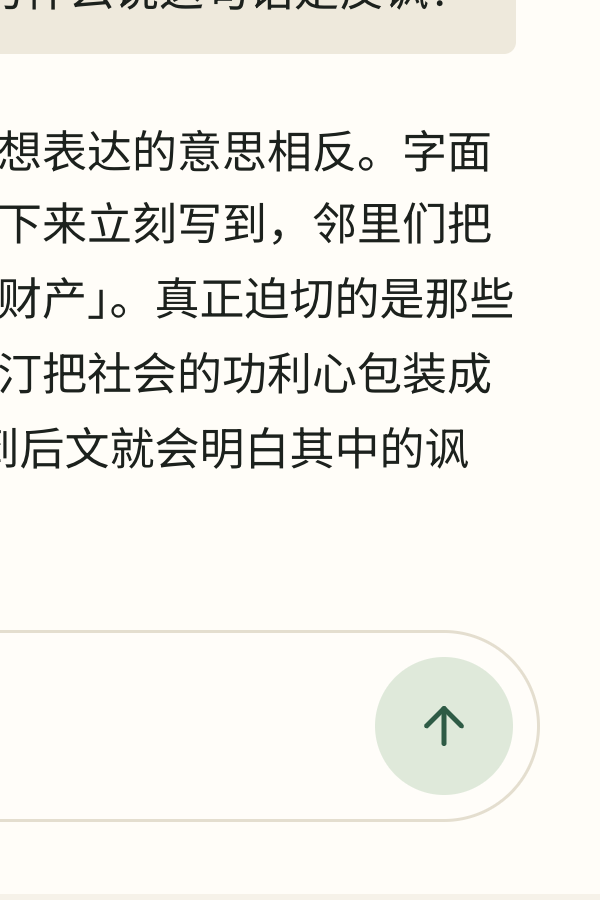
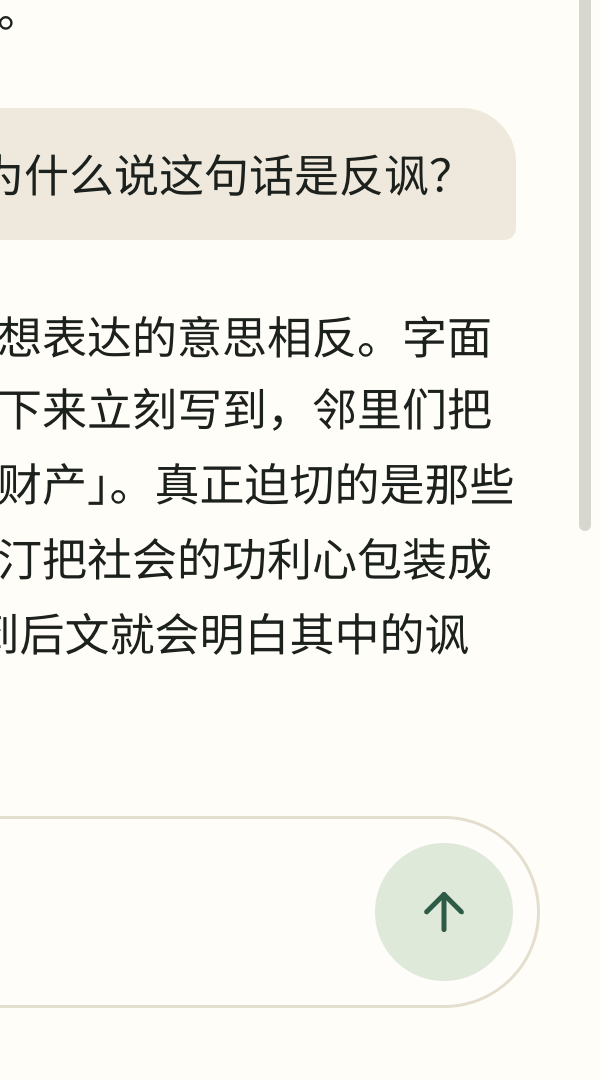
refactor: address review of the overlay scrollbars
- Bars fade from 0.7 s after the last user scroll over 0.4 s, gone by about 1.1 s.
- A bar already showing no longer stays up for the app's own scrolls (a streamed reply); typing is not a scroll.
- The chat's bar ends above the dock at its tallest (新回复 + quick row + 追问 bar) and starts below its fade.
- Firefox shows the page's bar from the root; removal hides what it showed.
- Split the listener into small pieces, ink-3 by color-mix, comments brought in line.

diff --git a/web/src/scrollbars.ts b/web/src/scrollbars.ts
@@ -1,31 +1,69 @@
 /**
  * Overlay-style scrollbars on classic ones: a scroll area's thumb shows while the user scrolls it, or while the
- * pointer is on its scrollbar, and fades out SCROLLBAR_IDLE_MS after. The scrollbar itself always keeps its gutter
- * and stays grabbable; only its colour changes, from the SCROLLBAR_ATTR rules in styles.css.
+ * pointer is on its scrollbar, and fades out from SCROLLBAR_IDLE_MS after. The scrollbar itself always keeps its
+ * gutter and stays grabbable; only its colour changes, from the SCROLLBAR_ATTR rules in styles.css.
  *
  * Scrolls the app makes on its own (following playback, a streamed reply, keeping the reading place when a click
- * narrows the column) do not show it: only a scroll within INPUT_WINDOW_MS of the user's wheel, finger drag, key or
- * middle-button press does, or one on a bar already showing. Dragging the bar itself shows it from the pointer.
+ * narrows the column) do not show it: only a scroll within INPUT_WINDOW_MS of the user's wheel, finger drag,
+ * scrolling key or middle-button press does. Dragging the bar itself shows it from the pointer.
  */
 
 /** Set on a scroll area while its scrollbar shows; the page's own scrollbar takes its style from the body. */
 export const SCROLLBAR_ATTR = "data-scrollbar";
-/** How long a scrollbar stays after the last scroll or after the pointer leaves it. */
-export const SCROLLBAR_IDLE_MS = 1000;
+/** How long a scrollbar stays after the last scroll or after the pointer leaves it, before it fades out. */
+export const SCROLLBAR_IDLE_MS = 700;
 /** How soon after the user's input a scroll still counts as theirs. */
 export const INPUT_WINDOW_MS = 400;
 
-const INPUT_EVENTS = ["wheel", "touchmove", "keydown", "mousedown"] as const;
-
 /** Installs the listeners on the document, once at app start; returns their removal. */
 export function autoHideScrollbars(doc: Document = document): () => void {
-  const timers = new Map<Element, ReturnType<typeof setTimeout>>();
+  const bars = scrollbarStates(doc);
   let lastInput = -Infinity;
-  // The scroll area whose scrollbar the pointer is on.
+
+  const onInput = (e: Event) => {
+    if (isScrollInput(e)) lastInput = Date.now();
+  };
+
+  const onScroll = (e: Event) => {
+    // The page's own scroll fires on the document.
+    if (Date.now() - lastInput <= INPUT_WINDOW_MS) bars.show(e.target instanceof Element ? e.target : doc.documentElement);
+  };
+
+  const onMouseMove = (e: Event) => {
+    const target = e.target instanceof Element ? e.target : null;
+    bars.hover(target && e instanceof MouseEvent && onScrollbar(target, e) ? target : null);
+  };
+
+  // Leaving the window (relatedTarget null) leaves any scrollbar too; the page's own sits at the window's edge.
+  const onMouseOut = (e: Event) => {
+    if (e instanceof MouseEvent && !e.relatedTarget) bars.hover(null);
+  };
+
+  const listeners: [string, (e: Event) => void][] = [
+    ["wheel", onInput],
+    ["touchmove", onInput],
+    ["keydown", onInput],
+    ["mousedown", onInput],
+    ["scroll", onScroll],
+    ["mousemove", onMouseMove],
+    ["mouseout", onMouseOut],
+  ];
+  const options = { capture: true, passive: true } as const;
+  for (const [type, listener] of listeners) doc.addEventListener(type, listener, options);
+  return () => {
+    for (const [type, listener] of listeners) doc.removeEventListener(type, listener, options);
+    bars.clear();
+  };
+}
+
+/** Which scrollbars show: each until SCROLLBAR_IDLE_MS after it was last shown, the hovered one for as long as it is. */
+function scrollbarStates(doc: Document) {
+  const timers = new Map<Element, ReturnType<typeof setTimeout>>();
+  // The scrollbar the pointer is on, by the element it is styled from.
   let hovered: Element | null = null;
 
   // The page's scrollbar is styled from the body (Chrome's choice when the body has scrollbar rules).
-  const styled = (el: Element) => (el === doc.documentElement ? doc.body : el);
+  const styled = (area: Element) => (area === doc.documentElement ? doc.body : area);
 
   const hideLater = (el: Element) => {
     clearTimeout(timers.get(el));
@@ -38,25 +76,15 @@ export function autoHideScrollbars(doc: Document = document): () => void {
     );
   };
 
-  const show = (el: Element) => {
+  const show = (area: Element) => {
+    const el = styled(area);
     el.setAttribute(SCROLLBAR_ATTR, "");
     if (el === hovered) clearTimeout(timers.get(el));
     else hideLater(el);
   };
 
-  // A click is not a scroll; a middle-button press starts autoscroll.
-  const onInput = (e: Event) => {
-    if (e.type === "mousedown" && (e as MouseEvent).button !== 1) return;
-    lastInput = Date.now();
-  };
-
-  const onScroll = (e: Event) => {
-    // The page's own scroll fires on the document.
-    const el = styled(e.target instanceof Element ? e.target : doc.documentElement);
-    if (Date.now() - lastInput <= INPUT_WINDOW_MS || el.hasAttribute(SCROLLBAR_ATTR)) show(el);
-  };
-
-  const hover = (el: Element | null) => {
+  const hover = (area: Element | null) => {
+    const el = area && styled(area);
     if (el === hovered) return;
     const left = hovered;
     hovered = el;
@@ -64,29 +92,26 @@ export function autoHideScrollbars(doc: Document = document): () => void {
     if (el) show(el);
   };
 
-  const onMouseMove = (e: MouseEvent) => {
-    const target = e.target instanceof Element ? e.target : null;
-    hover(target && onScrollbar(target, e) ? styled(target) : null);
-  };
-
-  // Leaving the window (relatedTarget null) leaves any scrollbar too; the page's own sits at the window's edge.
-  const onMouseOut = (e: MouseEvent) => {
-    if (!e.relatedTarget) hover(null);
-  };
-
-  const options = { capture: true, passive: true } as const;
-  for (const type of INPUT_EVENTS) doc.addEventListener(type, onInput, options);
-  doc.addEventListener("scroll", onScroll, options);
-  doc.addEventListener("mousemove", onMouseMove, options);
-  doc.addEventListener("mouseout", onMouseOut, options);
-  return () => {
-    for (const type of INPUT_EVENTS) doc.removeEventListener(type, onInput, options);
-    doc.removeEventListener("scroll", onScroll, options);
-    doc.removeEventListener("mousemove", onMouseMove, options);
-    doc.removeEventListener("mouseout", onMouseOut, options);
+  const clear = () => {
     for (const timer of timers.values()) clearTimeout(timer);
     timers.clear();
+    hovered = null;
+    for (const el of doc.querySelectorAll(`[${SCROLLBAR_ATTR}]`)) el.removeAttribute(SCROLLBAR_ATTR);
   };
+
+  return { show, hover, clear };
+}
+
+/**
+ * Whether an input event is the user starting to scroll: a wheel, a finger drag, a key outside a text field, or a
+ * middle-button press (autoscroll). A click is not, nor is typing, though the app may scroll after either.
+ */
+function isScrollInput(e: Event): boolean {
+  if (e instanceof KeyboardEvent) {
+    return !(e.target instanceof Element && e.target.closest("input, textarea, [contenteditable]"));
+  }
+  if (e.type === "mousedown") return e instanceof MouseEvent && e.button === 1;
+  return true;
 }
 
 /**

diff --git a/web/src/styles.css b/web/src/styles.css
@@ -53,24 +53,25 @@ button {
 :root {
   /* The room the custom scrollbar takes, for areas that make up for it; 0 where the browser draws its own. */
   --scrollbar-size: 0px;
-  /* ink-3, faint at rest-visible, a little firmer under the pointer and while dragged. */
-  --scrollbar-thumb-shown: rgb(154 158 147 / 0.4);
-  --scrollbar-thumb-hover: rgb(154 158 147 / 0.58);
-  --scrollbar-thumb-active: rgb(154 158 147 / 0.74);
+  /* ink-3, faint when shown, a little firmer under the pointer and while dragged. */
+  --scrollbar-thumb-shown: color-mix(in srgb, var(--ink-3) 40%, transparent);
+  --scrollbar-thumb-hover: color-mix(in srgb, var(--ink-3) 58%, transparent);
+  --scrollbar-thumb-active: color-mix(in srgb, var(--ink-3) 74%, transparent);
 }
 
 /*
  * A scrollbar takes its colour from its scroll area; every element sets its own, so a shown bar does not show the
- * bars inside its area. Shown, it fades in quickly; idle, it fades out slowly.
+ * bars inside its area. Shown, it fades in quickly; idle, it fades out over 0.4 s. A scroll area that declares its
+ * own transition must list --scrollbar-thumb in it to keep the fade.
  */
 * {
   --scrollbar-thumb: transparent;
-  transition: --scrollbar-thumb 0.5s ease-out;
+  transition: --scrollbar-thumb 0.4s ease-out;
 }
 
 [data-scrollbar] {
   --scrollbar-thumb: var(--scrollbar-thumb-shown);
-  transition-duration: 0.12s;
+  transition: --scrollbar-thumb 0.12s ease-out;
 }
 
 /* Shell pages that scroll and those that do not keep the same width; the 专注页 never scrolls the page itself. */
@@ -126,6 +127,11 @@ html:has(.shell) {
   * {
     scrollbar-width: thin;
     scrollbar-color: var(--scrollbar-thumb) transparent;
+  }
+
+  /* Firefox styles the page's scrollbar from the root, not the body that scrollbars.ts marks. */
+  html:has(> body[data-scrollbar]) {
+    --scrollbar-thumb: var(--scrollbar-thumb-shown);
   }
 }
 

diff --git a/web/src/scrollbars.test.ts b/web/src/scrollbars.test.ts
@@ -45,8 +45,9 @@ describe("autoHideScrollbars", () => {
     scroll(el);
     expect(shown(el)).toBe(true);
 
-    // Each scroll keeps it up for another idle period.
+    // Each scroll of the user's keeps it up for another idle period.
     vi.advanceTimersByTime(SCROLLBAR_IDLE_MS - 100);
+    wheel(el);
     scroll(el);
     vi.advanceTimersByTime(SCROLLBAR_IDLE_MS - 100);
     expect(shown(el)).toBe(true);
@@ -73,9 +74,28 @@ describe("autoHideScrollbars", () => {
     scroll(el);
     expect(shown(el)).toBe(false);
 
+    // Typing is not a scroll either, though sending a question scrolls the chat.
+    const input = document.createElement("input");
+    el.append(input);
+    input.dispatchEvent(new KeyboardEvent("keydown", { bubbles: true, key: "Enter" }));
+    scroll(el);
+    expect(shown(el)).toBe(false);
+
     wheel(el);
     vi.advanceTimersByTime(INPUT_WINDOW_MS + 1);
     scroll(el);
+    expect(shown(el)).toBe(false);
+  });
+
+  it("lets the bar fade even while the app keeps scrolling after the user", () => {
+    const el = scroller();
+    wheel(el);
+    scroll(el);
+    // A streamed reply following the bottom, every 300 ms.
+    for (let t = 0; t < SCROLLBAR_IDLE_MS * 3; t += 300) {
+      vi.advanceTimersByTime(300);
+      scroll(el);
+    }
     expect(shown(el)).toBe(false);
   });
 
@@ -116,13 +136,15 @@ describe("autoHideScrollbars", () => {
     expect(shown(el)).toBe(false);
   });
 
-  it("stops listening once removed", () => {
+  it("stops listening once removed, and hides what it showed", () => {
     const el = scroller();
+    move(el, 195);
     uninstall();
+    expect(shown(el)).toBe(false);
     wheel(el);
     scroll(el);
+    move(el, 100);
     move(el, 195);
     expect(shown(el)).toBe(false);
-    uninstall = () => {};
   });
 });

diff --git a/web/src/reading/sentence-panel.css b/web/src/reading/sentence-panel.css
@@ -150,7 +150,8 @@
   flex: 1;
   min-height: 0;
   overflow-y: auto;
-  /* A streamed answer that starts to scroll does not reflow; the gutter is part of the 28 px right margin. */
+  /* A streamed answer that starts to scroll does not reflow; in Chrome and Safari the gutter is part of the 28 px
+     right margin. */
   scrollbar-gutter: stable;
   display: flex;
   flex-direction: column;
@@ -160,9 +161,12 @@
   mask-image: linear-gradient(to bottom, transparent, #000 24px);
 }
 
-/* The bar starts below the top fade and ends above the floating 追问 bar and its chips (.chat-dock, up to 130 px). */
+/*
+ * The bar starts below the top fade and ends above the floating .chat-dock at its tallest (新回复, the quick row and
+ * the 追问 bar: 24 + 64 + 30 + 30 + 2 x 12 = 172 px).
+ */
 .chat-scroll::-webkit-scrollbar-track:vertical {
-  margin-block: 16px 140px;
+  margin-block: 24px 180px;
 }
 
 .chat-scroll > .sentence-panel-empty {

diff --git a/web/src/reading/focus.css b/web/src/reading/focus.css
@@ -93,7 +93,7 @@
 .directory-list {
   flex: 1;
   min-height: 0;
-  /* The scrollbar rides the directory's right edge, in its padding, 6 px clear of the current Chapter's highlight. */
+  /* The scrollbar rides the directory's right edge, in its padding, 7 px clear of the current Chapter's highlight. */
   margin: 0 -12px 0 0;
   padding: 0 calc(14px - var(--scrollbar-size)) 0 0;
   list-style: none;
